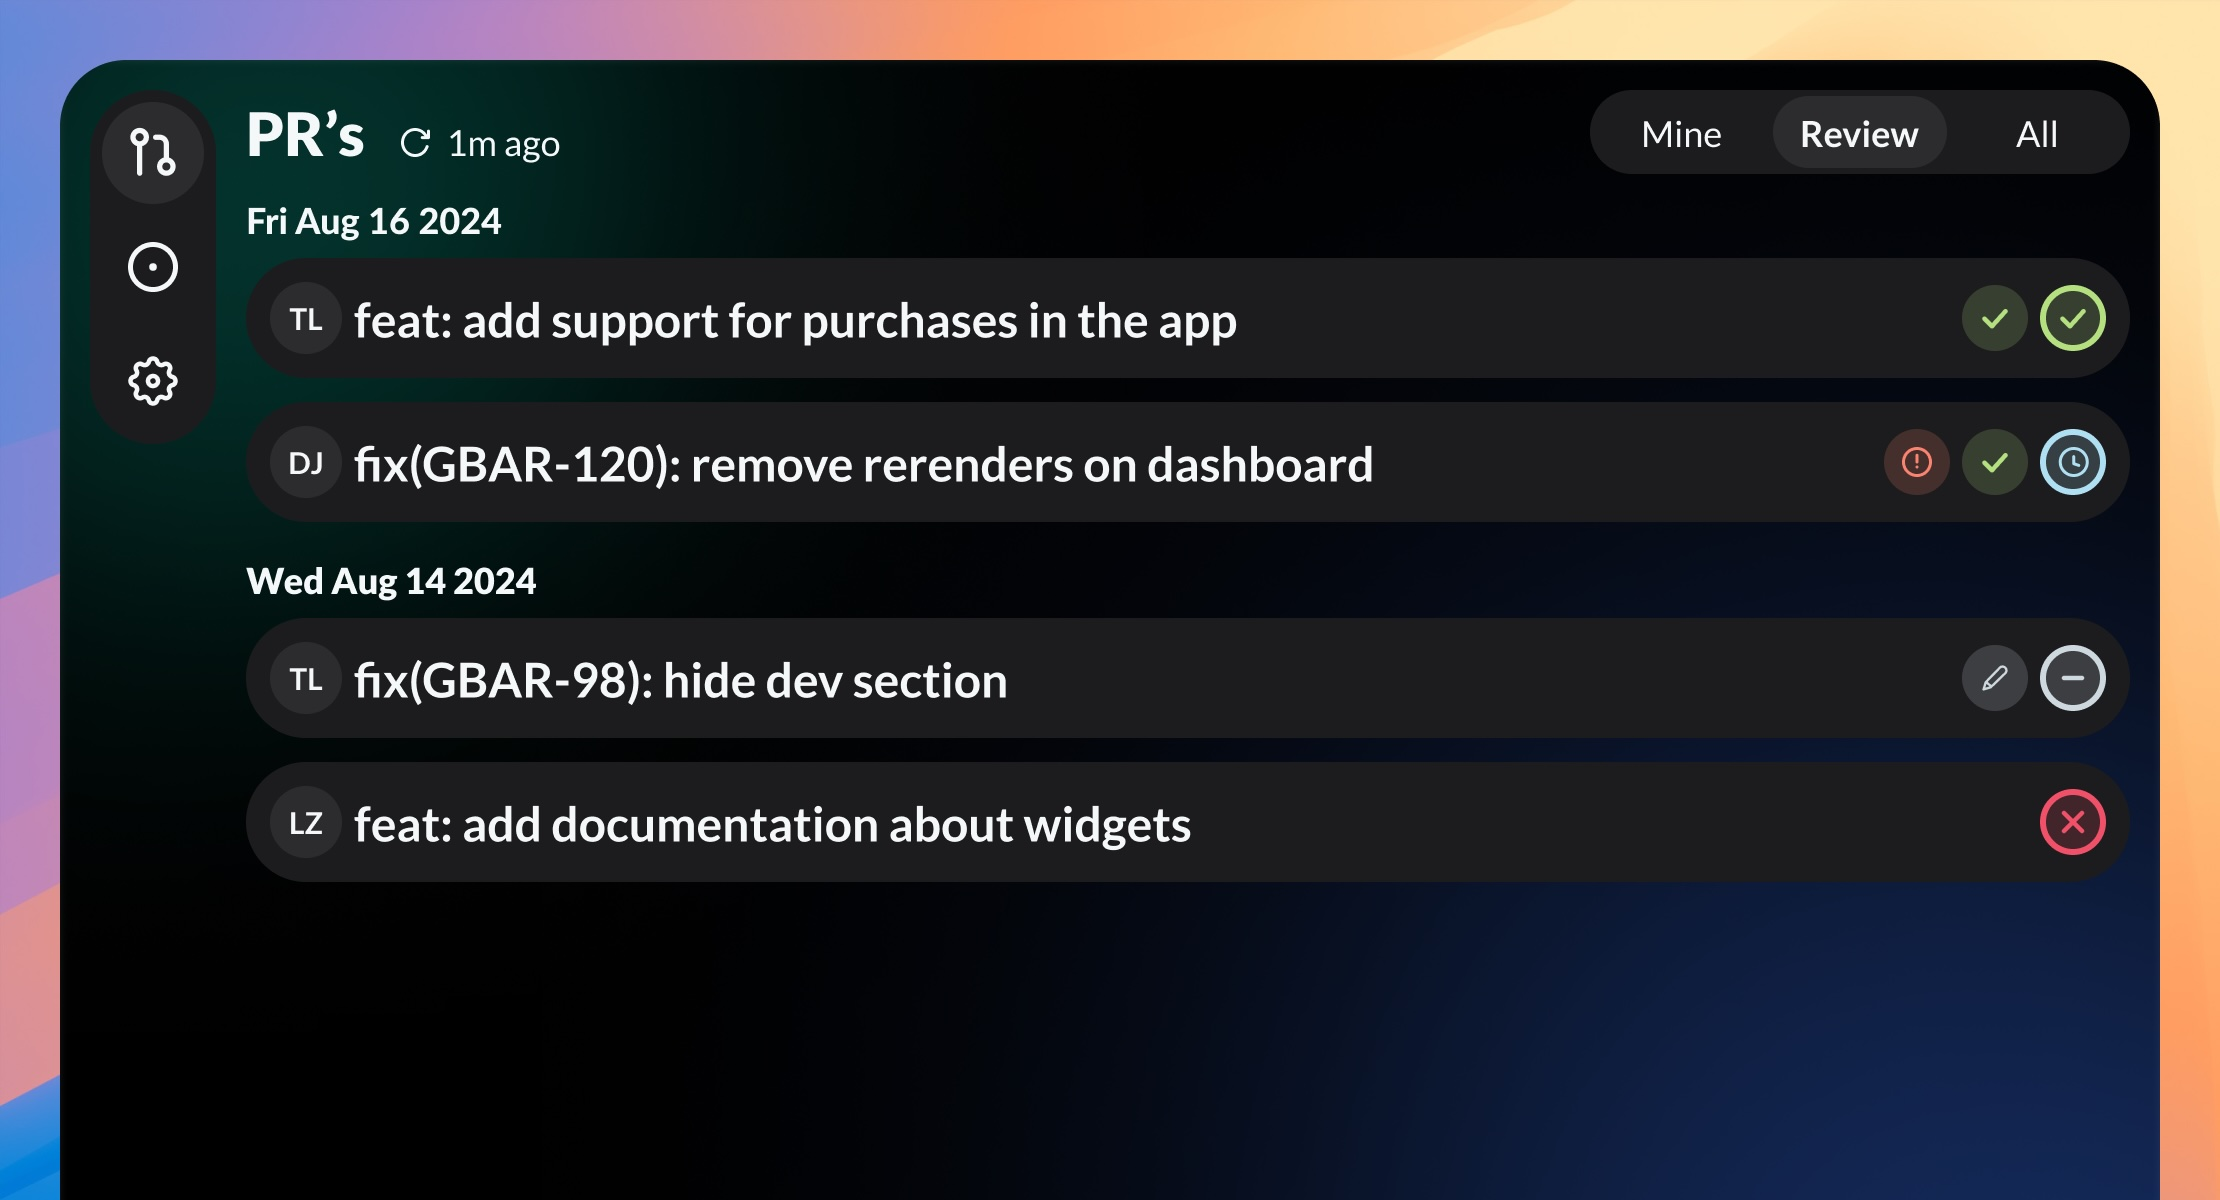
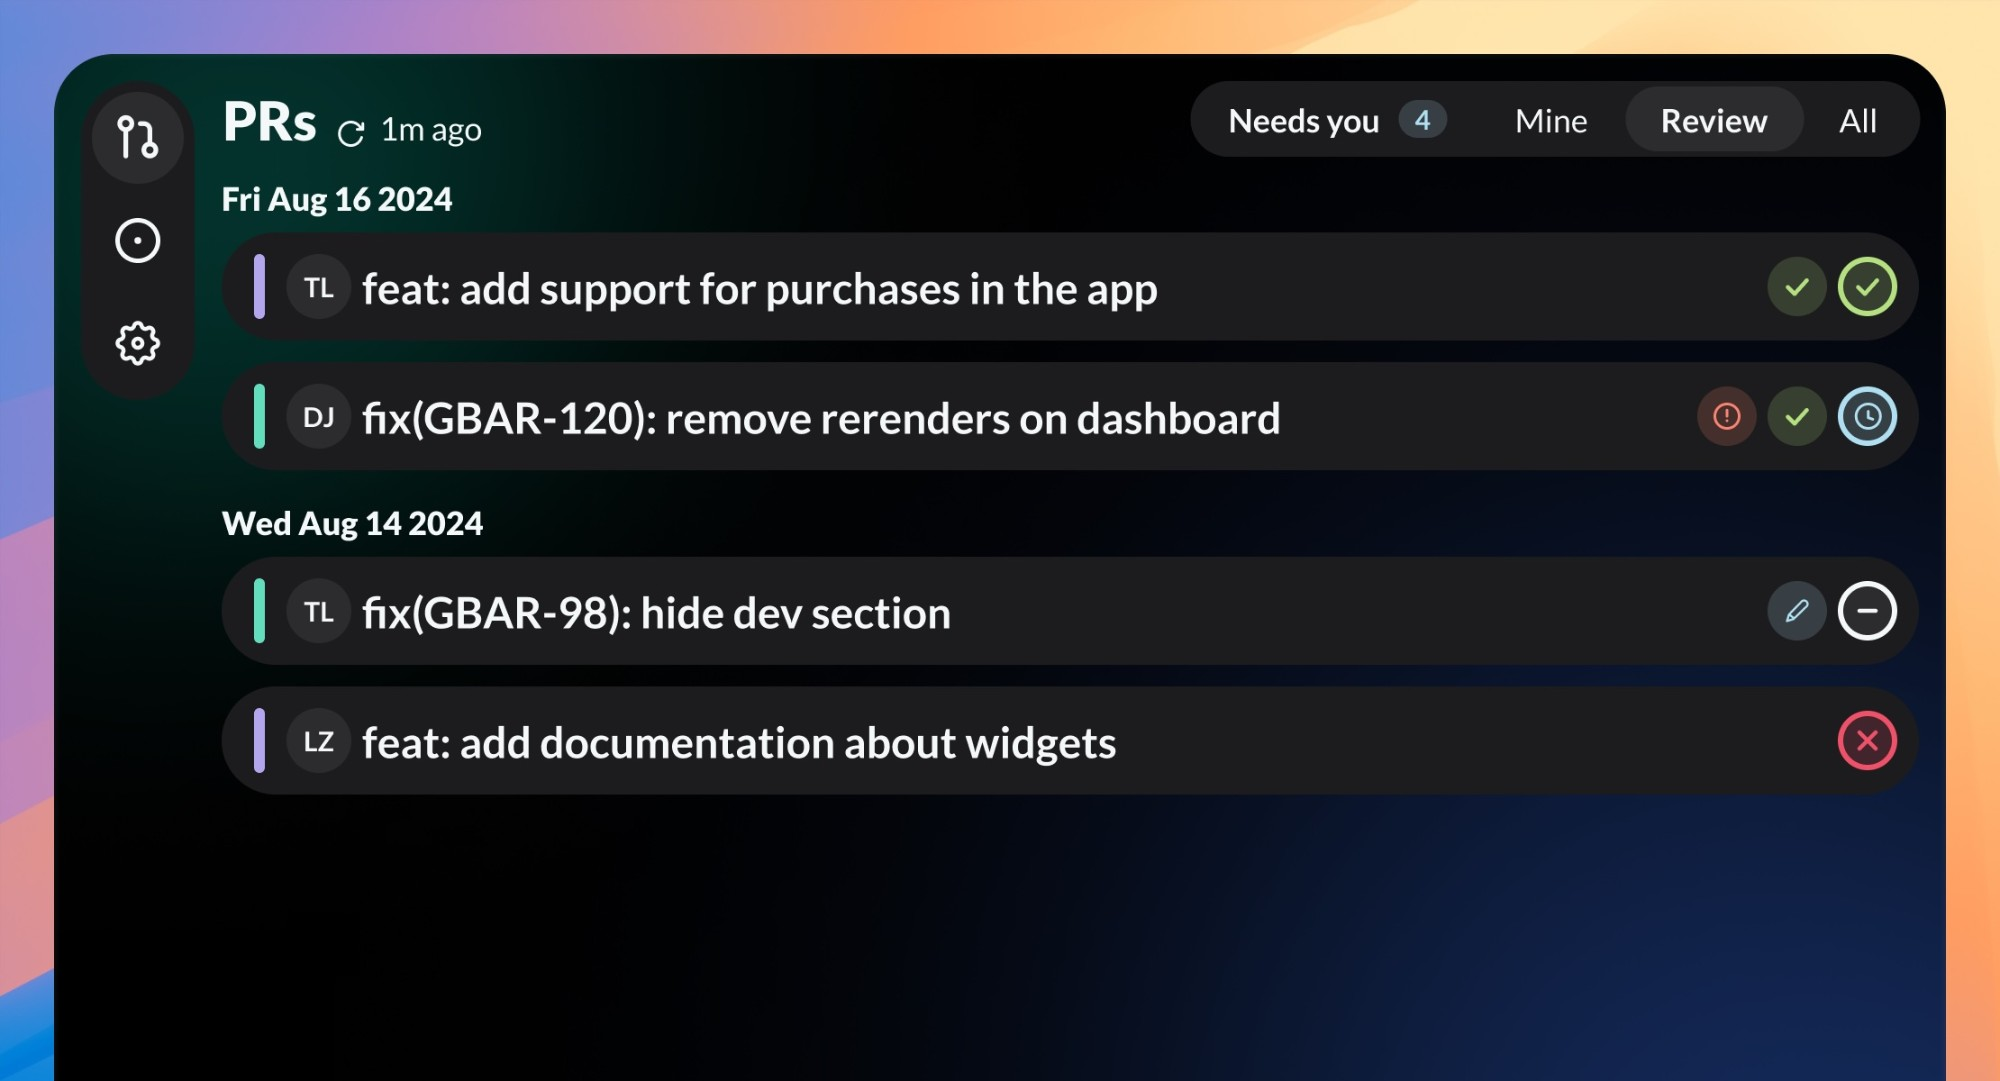
feat(whats-new): add the 2.1 features and refresh onboarding screenshots
Five entries tagged 2.1.0 (Needs you tab, one-click merge, urgency dot,
snooze & hide, per-PR notifications) replace the stale tabs/hide copy;
badge and CI status merge into one entry. The modal pages two items so
the popover card no longer clips, onboarding keeps three. Images are the
2.1 set; the notifications onboarding copy lists the real triggers.

diff --git a/src/core/constants/whats-new.ts b/src/core/constants/whats-new.ts
@@ -1,14 +1,18 @@
 import { ImageSourcePropType } from "react-native";
 
-import HowItWorksCIStatusImage from "assets/illustrations/onboarding/how-it-works-ci-status.jpg";
 import HowItWorksCompactImage from "assets/illustrations/onboarding/how-it-works-compact.jpg";
-import HowItWorksHideImage from "assets/illustrations/onboarding/how-it-works-hide.jpg";
-import HowItWorksMRStatusImage from "assets/illustrations/onboarding/how-it-works-mr-status.jpg";
-import HowItWorksTabsImage from "assets/illustrations/onboarding/how-it-works-tabs.jpg";
+import HowItWorksMergeImage from "assets/illustrations/onboarding/how-it-works-merge.jpg";
+import HowItWorksNeedsYouImage from "assets/illustrations/onboarding/how-it-works-needs-you.jpg";
+import HowItWorksSnoozeHideImage from "assets/illustrations/onboarding/how-it-works-snooze-hide.jpg";
+import HowItWorksStatusImage from "assets/illustrations/onboarding/how-it-works-status.jpg";
+import HowItWorksUrgencyDotImage from "assets/illustrations/onboarding/how-it-works-urgency-dot.jpg";
+import NotificationImage from "assets/illustrations/onboarding/notification.jpg";
 import { TranslationKey } from "contexts/intl";
 import AppModule from "modules/app-module";
 
 export const WHATS_NEW_ITEMS_PER_PAGE = 3;
+// The popover card is shorter than the onboarding window; three items clip the heading and button.
+export const WHATS_NEW_MODAL_ITEMS_PER_PAGE = 2;
 
 export type WhatsNewFeature = {
   image: ImageSourcePropType;
@@ -19,27 +23,39 @@ export type WhatsNewFeature = {
 
 export const whatsNewFeatures: WhatsNewFeature[] = [
   {
-    image: HowItWorksTabsImage,
-    headingKey: "Onboarding/HowItWorks/TabsHeading",
-    bodyKey: "Onboarding/HowItWorks/TabsBody",
-    sinceVersion: "1.15.0",
+    image: HowItWorksNeedsYouImage,
+    headingKey: "Onboarding/HowItWorks/NeedsYouHeading",
+    bodyKey: "Onboarding/HowItWorks/NeedsYouBody",
+    sinceVersion: "2.1.0",
   },
   {
-    image: HowItWorksHideImage,
-    headingKey: "Onboarding/HowItWorks/HidePRsHeading",
-    bodyKey: "Onboarding/HowItWorks/HidePRsBody",
-    sinceVersion: "1.15.0",
+    image: HowItWorksMergeImage,
+    headingKey: "Onboarding/HowItWorks/MergeHeading",
+    bodyKey: "Onboarding/HowItWorks/MergeBody",
+    sinceVersion: "2.1.0",
   },
   {
-    image: HowItWorksMRStatusImage,
-    headingKey: "Onboarding/HowItWorks/MRStatusHeading",
-    bodyKey: "Onboarding/HowItWorks/MRStatusBody",
-    sinceVersion: "2.0.0",
+    image: HowItWorksUrgencyDotImage,
+    headingKey: "Onboarding/HowItWorks/UrgencyDotHeading",
+    bodyKey: "Onboarding/HowItWorks/UrgencyDotBody",
+    sinceVersion: "2.1.0",
   },
   {
-    image: HowItWorksCIStatusImage,
-    headingKey: "Onboarding/HowItWorks/CIStatusHeading",
-    bodyKey: "Onboarding/HowItWorks/CIStatusBody",
+    image: HowItWorksSnoozeHideImage,
+    headingKey: "Onboarding/HowItWorks/SnoozeHideHeading",
+    bodyKey: "Onboarding/HowItWorks/SnoozeHideBody",
+    sinceVersion: "2.1.0",
+  },
+  {
+    image: NotificationImage,
+    headingKey: "Onboarding/HowItWorks/NotificationsHeading",
+    bodyKey: "Onboarding/HowItWorks/NotificationsBody",
+    sinceVersion: "2.1.0",
+  },
+  {
+    image: HowItWorksStatusImage,
+    headingKey: "Onboarding/HowItWorks/StatusHeading",
+    bodyKey: "Onboarding/HowItWorks/StatusBody",
     sinceVersion: "2.0.0",
   },
   {

diff --git a/src/components/whats-new-modal/whats-new-modal.tsx b/src/components/whats-new-modal/whats-new-modal.tsx
@@ -8,7 +8,7 @@ import Heading from "components/heading/heading";
 import Spacer from "components/spacer/spacer";
 import {
   getUnseenWhatsNewFeatures,
-  WHATS_NEW_ITEMS_PER_PAGE,
+  WHATS_NEW_MODAL_ITEMS_PER_PAGE,
 } from "constants/whats-new";
 import useSelector from "hooks/use-selector";
 import useTranslation from "hooks/use-translation";
@@ -30,13 +30,13 @@ const WhatsNewModal: React.FC<Props> = ({ visible, onClose }) => {
   const [pageIndex, setPageIndex] = useState(0);
   const totalPages = Math.max(
     1,
-    Math.ceil(features.length / WHATS_NEW_ITEMS_PER_PAGE),
+    Math.ceil(features.length / WHATS_NEW_MODAL_ITEMS_PER_PAGE),
   );
   const isLastPage = pageIndex >= totalPages - 1;
 
   const visibleFeatures = features.slice(
-    pageIndex * WHATS_NEW_ITEMS_PER_PAGE,
-    pageIndex * WHATS_NEW_ITEMS_PER_PAGE + WHATS_NEW_ITEMS_PER_PAGE,
+    pageIndex * WHATS_NEW_MODAL_ITEMS_PER_PAGE,
+    pageIndex * WHATS_NEW_MODAL_ITEMS_PER_PAGE + WHATS_NEW_MODAL_ITEMS_PER_PAGE,
   );
 
   const onNextPress = () => {
